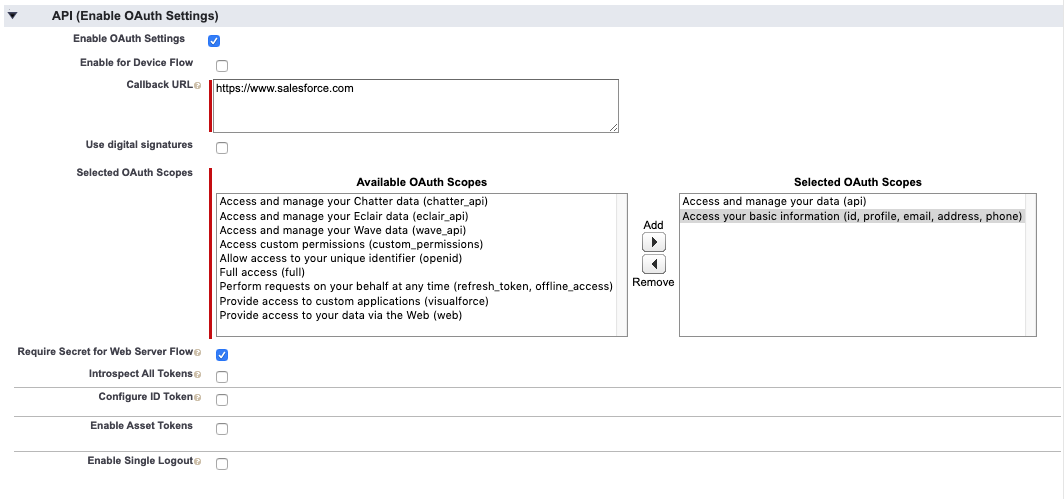
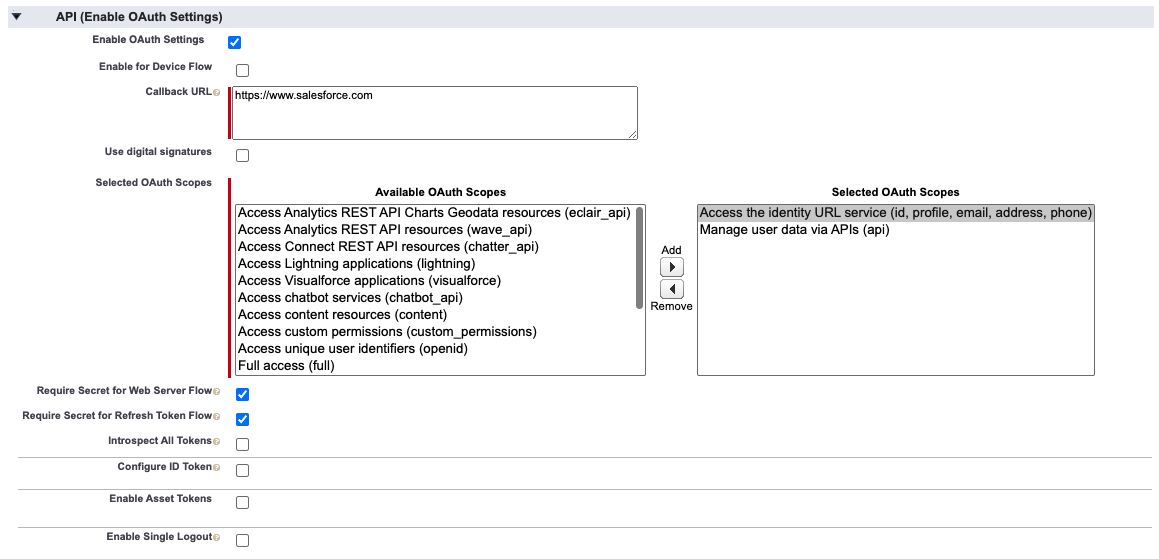
fix updated connected app OAuth scopes names

Changed region(s): [[0.0, 0.0, 1.0, 1.0], [0.062, 0.2405, 0.5583, 0.3607], [0.5893, 0.6613, 0.9615, 0.6914]]

diff --git a/docs/classic/02-installation/02-guided-setup.md b/docs/classic/02-installation/02-guided-setup.md
@@ -52,15 +52,13 @@ OAuth settings enabled.
 
 7.  Ensure Selected OAuth Scopes has the following values selected:
 
-a.  Access and manage your data (api)
+a.  Access the identity URL service (id, profile, email, address, phone)
 
-b.  Access your basic information (id, profile, email, address, phone)
+b.  Manage user data via APIs (api)
+
+8.  Select the checkbox "Require Secret for Web Server Flow", and the checkbox "Require Secret For Refresh Token Flow"
 
 <img src={useBaseUrl('/img/classic/image105.png')} />
-
-8.  Select the checkbox "Require Secret for Web Server Flow"
-
-<img src={useBaseUrl('/img/classic/image106.png')} />
 
 9.  Click "Save" at the bottom of the screen.
 

diff --git a/docs/classic/02-installation/04-salesforce-lambdas-manual-setup.md b/docs/classic/02-installation/04-salesforce-lambdas-manual-setup.md
@@ -55,15 +55,13 @@ OAuth settings enabled.
 
 7.  Ensure Selected OAuth Scopes has the following values selected:
 
-a.  Access and manage your data (api)
+a.  Access the identity URL service (id, profile, email, address, phone)
 
-b.  Access your basic information (id, profile, email, address, phone)
+b.  Manage user data via APIs (api)
+
+8.  Select the checkbox "Require Secret for Web Server Flow", and the checkbox "Require Secret For Refresh Token Flow"
 
 <img src={useBaseUrl('/img/classic/image105.png')} />
-
-8.  Select the checkbox "Require Secret for Web Server Flow"
-
-<img src={useBaseUrl('/img/classic/image106.png')} />
 
 9.  Click "Save" at the bottom of the screen.
 

diff --git a/docs/lightning/02-installation/02-guided-setup.md b/docs/lightning/02-installation/02-guided-setup.md
@@ -66,11 +66,11 @@ with OAuth settings enabled.
 7.  In the Selected OAuth Scopes section, select the following and add
     them to the Selected OAuth Scopes:
 
-8.  Access and manage your data (api)
+8.  Access the identity URL service (id, profile, email, address, phone)
 
-9.  Access your basic information (id, profile, email, address, phone)
+9.  Manage user data via APIs (api)
 
-10. Select the checkbox for Require Secret for Web Server Flow
+10. Select the checkbox for Require Secret for Web Server Flow, and the checkbox for Require Secret For Refresh Token Flow
 
 11. The **API (Enable OAuth Settings)** section should now look like
     this

diff --git a/docs/lightning/02-installation/04-salesforce-lambdas-manual-setup.md b/docs/lightning/02-installation/04-salesforce-lambdas-manual-setup.md
@@ -85,11 +85,11 @@ with OAuth settings enabled.
 7.  In the Selected OAuth Scopes section, select the following and add
     them to the Selected OAuth Scopes:
 
-8.  Access and manage your data (api)
+8.  Access the identity URL service (id, profile, email, address, phone)
 
-9.  Access your basic information (id, profile, email, address, phone)
+9.  Manage user data via APIs (api)
 
-10. Select the checkbox for Require Secret for Web Server Flow
+10. Select the checkbox for Require Secret for Web Server Flow, and the checkbox for Require Secret For Refresh Token Flow
 
 11. The **API (Enable OAuth Settings)** section should now look like
     this
